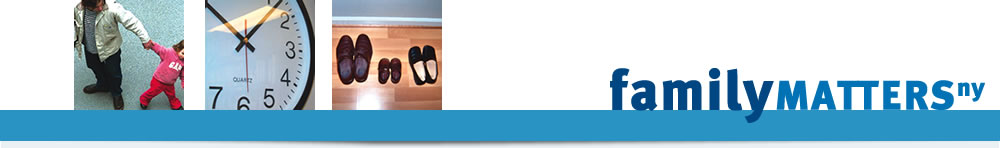
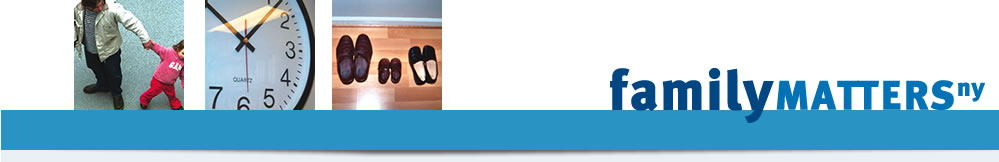
menu border is wider, move page down so menu fits

Changed region(s): [[0.0, 0.027, 1.0, 0.8378], [0.0, 0.9189, 1.0, 1.0], [0.1862, 0.027, 0.2172, 0.0811]]

diff --git a/themes/familymattersny/style.css b/themes/familymattersny/style.css
@@ -516,7 +516,7 @@ a:hover {
 
 #branding {
 	background: #fff url('images/header_bg.jpg') no-repeat top;
-	padding: 0 0 144px 0;     /*the bottom padding is there so the background image displays - the logo etc.  */
+	padding: 0 0 152px 0;     /*the bottom padding is there so the background image displays - the logo etc.  */
     position: relative;   
 	z-index: 2;
 } 
@@ -744,11 +744,13 @@ a:hover {
 	line-height: 1.5em;
 	padding-bottom: .3em;
 	padding-top: 15px;
+
 }
 .entry-title,
 .entry-title a {
 	color: #004682;
-	text-decoration: none;
+	text-decoration: none; 
+
 }
 .entry-title a:hover,
 .entry-title a:focus,
@@ -1099,6 +1101,7 @@ article.format-status .entry-content {
 	font-size: 36px;
 	font-weight: bold;
 	line-height: 48px;
+
 }
 .singular .entry-title,
 .singular .entry-header .entry-meta {
